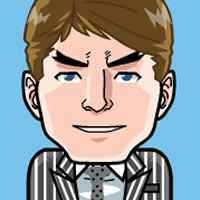
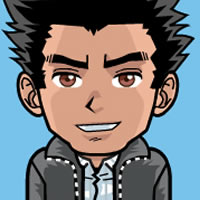
Adicionando as imagens dos Autores no blog;

diff --git a/application/views/Admin/users.php b/application/views/Admin/users.php
@@ -105,17 +105,29 @@
                                     "Excluir"
                                 );
                                 foreach ($users as $user) {
-                                    $foto = 'Foto';
-                                    $nome = $user->nome;
-                                    $alterar = anchor(
+                                    if ($user->img) {
+                                        $photo = img(
+                                            "assets/Home/img/users/".md5($user->id), 
+                                            false, 
+                                            ["style"=> "border-radius: 50%; width: 50px"]
+                                        ); 
+                                    } else {
+                                        $photo = img(
+                                            "assets/Home/img/semFoto.png",
+                                            false, 
+                                            ["style"=> "border-radius: 50%; width: 50px"]
+                                        );
+                                    }
+                                    $name = $user->nome;
+                                    $change = anchor(
                                         base_url('admin/usuarios/alterar/'.md5($user->id)), 
                                         '<i class="fa fa-refresh fa-fw"></i> Alterar'
                                     );
-                                    $excluir = anchor(
+                                    $exclude = anchor(
                                         base_url('admin/usuarios/excluir/'.md5($user->id)), 
                                         '<i class="fa fa-remove fa-fw"></i> Excluir'
                                     );
-                                    $this->table->add_row($foto, $nome, $alterar, $excluir);
+                                    $this->table->add_row($photo, $name, $change, $exclude);
                                 }
                                 $this->table->set_template(array(
                                     'table_open'=> '<table class="table table-stried">',

diff --git a/application/controllers/Admin/Users.php b/application/controllers/Admin/Users.php
@@ -126,7 +126,6 @@ class Users extends CI_Controller {
      * in the admin panel. Otherwise, it displays an error message.
      *
      * @param string $id The ID of the user to be edited.
-     *
      * @return void
     */
     public function save_edit($id) {
@@ -156,6 +155,18 @@ class Users extends CI_Controller {
         }
     }
 
+    /**
+     * Saves the edits of a user after the edit form is submitted.
+     *
+     * This method checks if the information provided in the edit form is 
+     * valid using the `validation_user()` method. If the information is valid, 
+     * the edits are saved in the database for the user corresponding to the 
+     * provided ID. If the edit is successful, it redirects to the users' page 
+     * in the admin panel. Otherwise, it displays an error message.
+     *
+     * @param string $id The ID of the user to be edited.
+     * @return void
+    */
     public function new_photo($id) {
         $this->login_manager();
         
@@ -179,7 +190,11 @@ class Users extends CI_Controller {
             $this->load->library('image_lib', $config_img);
 
             if ($this->image_lib->resize()) {
-                redirect(base_url("admin/usuarios/alterar/$id"));
+                if ($this->authors_model->edit_image($id)) {
+                    redirect(base_url("admin/usuarios/alterar/$id"));
+                } else {
+                    echo 'Houve um erro no sistema!';
+                } 
             } else {
                 echo $this->image_lib->display_errors();
             }
@@ -327,7 +342,7 @@ class Users extends CI_Controller {
         );
         $this->form_validation->set_rules(
             $id_input_user,
-            'Histórico',
+            'User',
             'required|min_length[3]|is_unique[usuario.user]'
         );
         $this->form_validation->set_rules(

diff --git a/application/views/Home/author.php b/application/views/Home/author.php
@@ -7,23 +7,28 @@
                 <?= $title ?><small> > <?= $caption ?></small>
             </h1>
             <!-- Author -->
-            <?php foreach($authors as $author): ?>
-                <div class="col-md-4">
-                    <img
-                        class="img-responsive img-circle" 
-                        src="http://placehold.it/200x200" 
-                        alt="imagem autor"
-                    >
-                </div>
-                <div class="col-md-8 ">
-                    <h2>
-                        <?=$author->nome?>
-                    </h2>
-                    <hr>
-                    <p>
-                        <?=$author->historico?>
-                    </p>
-                    <hr>
-                </div>
-            <?php endforeach ?>
+            <div class="col-md-4">
+                <?php 
+                    if ($author->img) {
+                        $url_photo = "assets/Home/img/users/".md5($author->id); 
+                    } else {
+                        $url_photo = "assets/Home/img/semFoto.png";
+                    }
+                ?>
+                <img
+                    class="img-responsive img-circle" 
+                    src="<?= base_url($url_photo) ?>" 
+                    alt="imagem autor"
+                >
+            </div>
+            <div class="col-md-8 ">
+                <h2>
+                    <?=$author->nome?>
+                </h2>
+                <hr>
+                <p>
+                    <?=$author->historico?>
+                </p>
+                <hr>
+            </div>
         </div>

diff --git a/application/views/Admin/users-edit.php b/application/views/Admin/users-edit.php
@@ -97,6 +97,25 @@
                     <?= "Imagem de destaque do $caption" ?><small></small>
                 </div>
                 <div class="panel-body">
+                    <div class="row" style="padding-bottom: 15px;">
+                        <div class="col-lg-3 col-lg-offset-3">
+                            <?php 
+                                if ($user->img) {
+                                    echo img(
+                                        "assets/Home/img/users/".md5($user->id), 
+                                        false, 
+                                        ["style"=> "border-radius: 50%"]
+                                    ); 
+                                } else {
+                                    echo img(
+                                        "assets/Home/img/semFoto.png",
+                                        false, 
+                                        ["style"=> "border-radius: 50%"]
+                                    );
+                                }
+                            ?>
+                        </div>
+                    </div>
                     <div class="row">
                         <div class="col-lg-12">
                             <?= form_open_multipart('admin/users/new_photo/'.md5($user->id)) ?>

diff --git a/application/views/Home/about-us.php b/application/views/Home/about-us.php
@@ -36,7 +36,18 @@
             <div class="col-md-12 row">
                 <?php foreach($authors as $author): ?>
                     <div class="col-md-4 col-xs-6">
-                        <img class="img-responsive img-circle" src="http://placehold.it/200x200" alt="Imagem autor">
+                        <?php 
+                            if ($author->img) {
+                                $url_photo = "assets/Home/img/users/".md5($author->id); 
+                            } else {
+                                $url_photo = "assets/Home/img/semFoto.png";
+                            }
+                        ?>
+                        <img
+                            class="img-responsive img-circle" 
+                            src="<?= base_url($url_photo) ?>" 
+                            alt="imagem autor"
+                        >
                         <h4 class="text-center">
                             <a href="<?= base_url("autor/$author->id/".snake_case($author->nome)) ?>">
                                 <?= $author->nome ?>

diff --git a/application/models/Authors_model.php b/application/models/Authors_model.php
@@ -142,7 +142,8 @@ class Authors_model extends CI_Model {
             'nome, '.
             'historico, '.
             'email, '.
-            'user'
+            'user, '.
+            'img'
         );
         $this->db->where("md5(id)", $id);
 
@@ -181,6 +182,13 @@ class Authors_model extends CI_Model {
             'user'=> $user,
             'senha'=> md5($senha),
         ];
+        $this->db->where("md5(id)", $id);
+
+        return $this->db->update('usuario', $data);
+    }
+
+    public function edit_image($id) {
+        $data['img'] = TRUE;
         $this->db->where("md5(id)", $id);
 
         return $this->db->update('usuario', $data);

diff --git a/application/controllers/About.php b/application/controllers/About.php
@@ -51,7 +51,7 @@ class About extends CI_Controller {
             'title'=> 'Sobre nós',
             'caption'=> 'Autor',
             'categories'=> $this->categories,
-            'authors'=> $this->authors_model->get_author($id),
+            'author'=> $this->authors_model->get_author($id),
         ];
 
         $this->load->view('Home/templates/head', $data);

diff --git a/documentation/ProjectStructure/LibraryForm.php b/documentation/ProjectStructure/LibraryForm.php
@@ -153,5 +153,10 @@ class LibraryForm {
                     }
                 }
         ';
+        $this->mostrando_imagem = '
+                Para mostrar a imagem, basta colocar a url da foto em uma função img().
+                Sintaxe:
+                    <?=img("assets/Home/img/users/".md5($user->id))?>
+        ';
     }
 }
